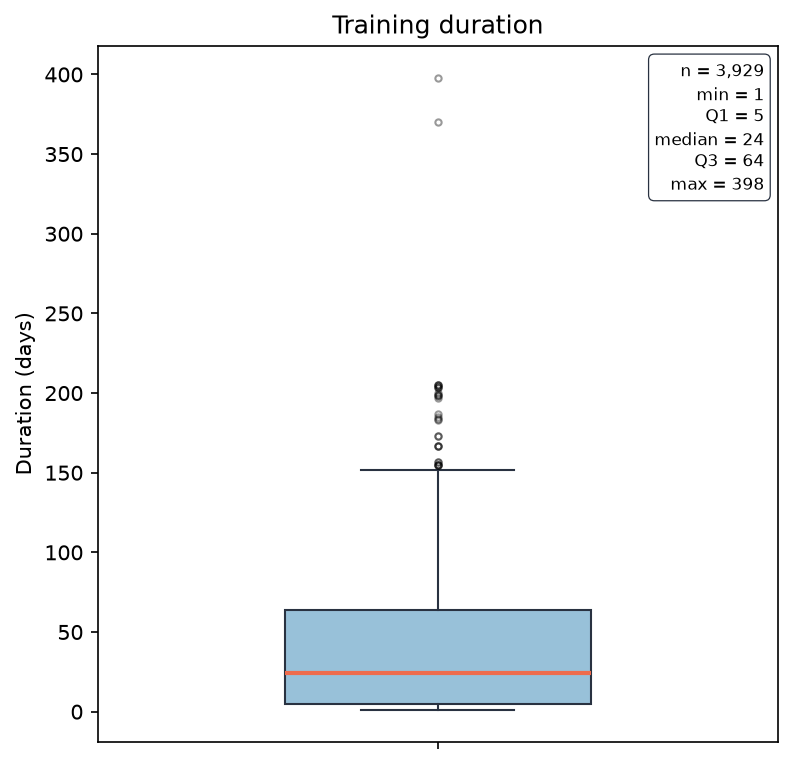
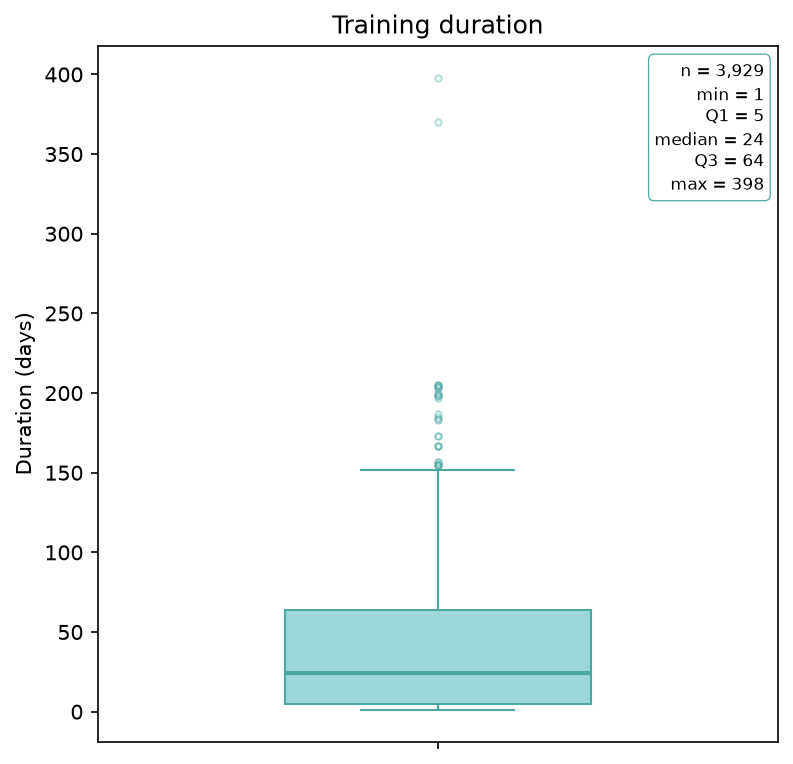
Apply a two-colour teal palette to charts so figures match the analysis style. Use #4ba7a2 as the main series colour and #9cd8da as the secondary fill.

diff --git a/src/inspect/eda.py b/src/inspect/eda.py
@@ -35,13 +35,24 @@ plt.rcParams.update(
         "hist.bins": 30,
     }
 )
-BAR_COLOR = "#3d5a80"
-HIST_COLOR = "#3d5a80"
+BAR_COLOR = "#4ba7a2"
+HIST_COLOR = "#4ba7a2"
+SECONDARY_COLOR = "#9cd8da"
 LABEL_BOX = {
     "boxstyle": "round,pad=0.35",
     "facecolor": "white",
-    "edgecolor": "#293241",
+    "edgecolor": "#4ba7a2",
     "linewidth": 0.6,
+}
+BOXPLOT_STYLE = {
+    "tick_labels": [""],
+    "widths": 0.45,
+    "patch_artist": True,
+    "boxprops": {"facecolor": SECONDARY_COLOR, "edgecolor": BAR_COLOR},
+    "medianprops": {"color": BAR_COLOR, "linewidth": 2},
+    "whiskerprops": {"color": BAR_COLOR},
+    "capprops": {"color": BAR_COLOR},
+    "flierprops": {"marker": "o", "markersize": 3, "alpha": 0.4, "markeredgecolor": BAR_COLOR},
 }
 
 
@@ -429,14 +440,7 @@ def plot_boxplot(series: pd.Series, title: str, ylabel: str, filename: str) -> P
     data = series.dropna().to_numpy()
     ax.boxplot(
         data,
-        tick_labels=[""],
-        widths=0.45,
-        patch_artist=True,
-        boxprops={"facecolor": "#98c1d9", "edgecolor": "#293241"},
-        medianprops={"color": "#ee6c4d", "linewidth": 2},
-        whiskerprops={"color": "#293241"},
-        capprops={"color": "#293241"},
-        flierprops={"marker": "o", "markersize": 3, "alpha": 0.4},
+        **BOXPLOT_STYLE,
     )
     _annotate_numeric_box(ax, data)
     ax.set_title(title)
@@ -472,14 +476,7 @@ def plot_date_boxplot(series: pd.Series, title: str, filename: str) -> Path:
     data = mdates.date2num(pd.to_datetime(series.dropna()))
     ax.boxplot(
         data,
-        tick_labels=[""],
-        widths=0.45,
-        patch_artist=True,
-        boxprops={"facecolor": "#98c1d9", "edgecolor": "#293241"},
-        medianprops={"color": "#ee6c4d", "linewidth": 2},
-        whiskerprops={"color": "#293241"},
-        capprops={"color": "#293241"},
-        flierprops={"marker": "o", "markersize": 3, "alpha": 0.4},
+        **BOXPLOT_STYLE,
     )
     _annotate_date_box(ax, data)
     ax.yaxis.set_major_formatter(mdates.DateFormatter("%Y-%m"))

diff --git a/src/analysis/monthly_training.py b/src/analysis/monthly_training.py
@@ -15,8 +15,8 @@ PNG_DIR = PROJECT_ROOT / "output" / "png" / "analysis"
 
 PARTICIPATED_RESULTS = ("katkestas", "lõpetas")
 
-SENT_COLOR = "#3d5a80"
-PARTICIPATED_COLOR = "#ee6c4d"
+SENT_COLOR = "#4ba7a2"
+PARTICIPATED_COLOR = "#9cd8da"
 
 plt.rcParams.update(
     {

diff --git a/ANALYSIS.md b/ANALYSIS.md
@@ -280,4 +280,10 @@ Code: `src/analysis/monthly_training.py`. Table: [output/txt/monthly_training.tx
 
 **Conclusion.** Starts run from May 2024 to March 2025, with a clear peak in **October 2024** (1,213 sent). Almost everyone who is sent also participates: **95.8%** overall (`lõpetas` or `katkestas`). The gap is small in every month (never more than 57 people) and is zero in the first three months, when volumes were tiny. Non-participation (`loobus`, `jäi ära`, `keeldus`) is 165 people (4.2%) and does not change the monthly shape: the sent and participated series move together.
 
-All figures: [output/png/analysis](output/png/analysis). Table: [output/txt/monthly_training.txt](output/txt/monthly_training.txt).
+---
+
+## 9. Chart colours
+
+**What was done.** All PNGs were redrawn with a two-colour palette: main **`#4ba7a2`**, secondary **`#9cd8da`**. Single-series bars and histograms use the main colour. Grouped bars use main for sent and secondary for participated. Boxplots use secondary fill and main outlines/median.
+
+The numbers in the figures are unchanged. Folders: [output/png/eda](output/png/eda), [output/png/analysis](output/png/analysis).

diff --git a/docs/process.md b/docs/process.md
@@ -32,3 +32,6 @@ Completed tasks, newest last.
 
 8. **Monthly sent vs participated**
    - Added `src/analysis/monthly_training.py`: by start month, count all IDs sent to training vs IDs who participated (`lõpetas` or `katkestas`). Wrote `output/txt/monthly_training.txt` and `output/png/analysis/monthly_sent_vs_participated.png`.
+
+9. **Chart colours**
+   - Set PNG colours to main `#4ba7a2` and secondary `#9cd8da`, then regenerated EDA and analysis figures.
